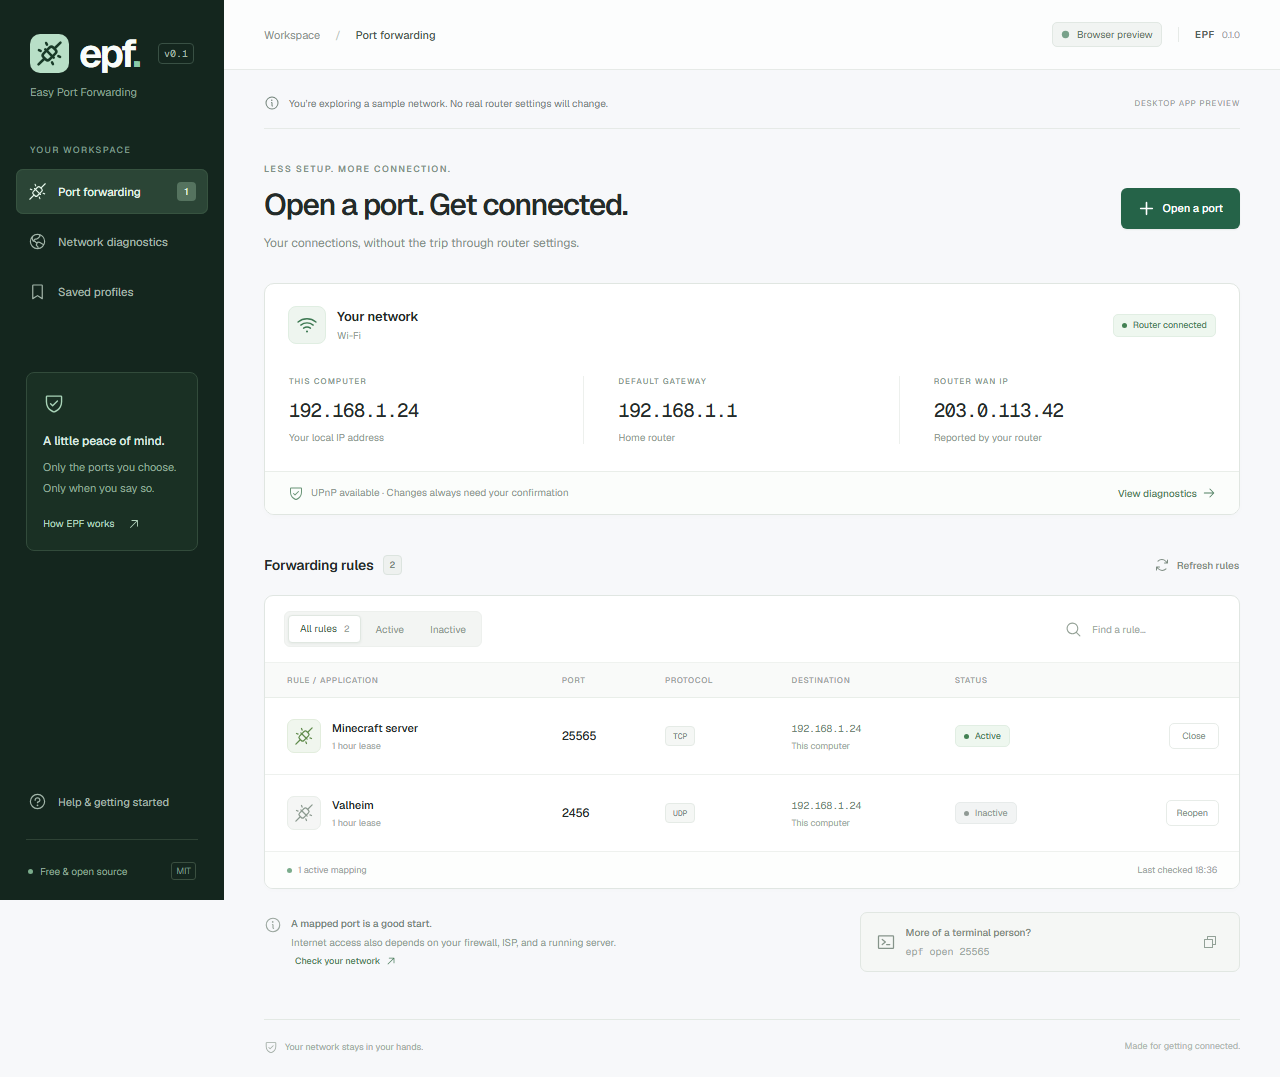
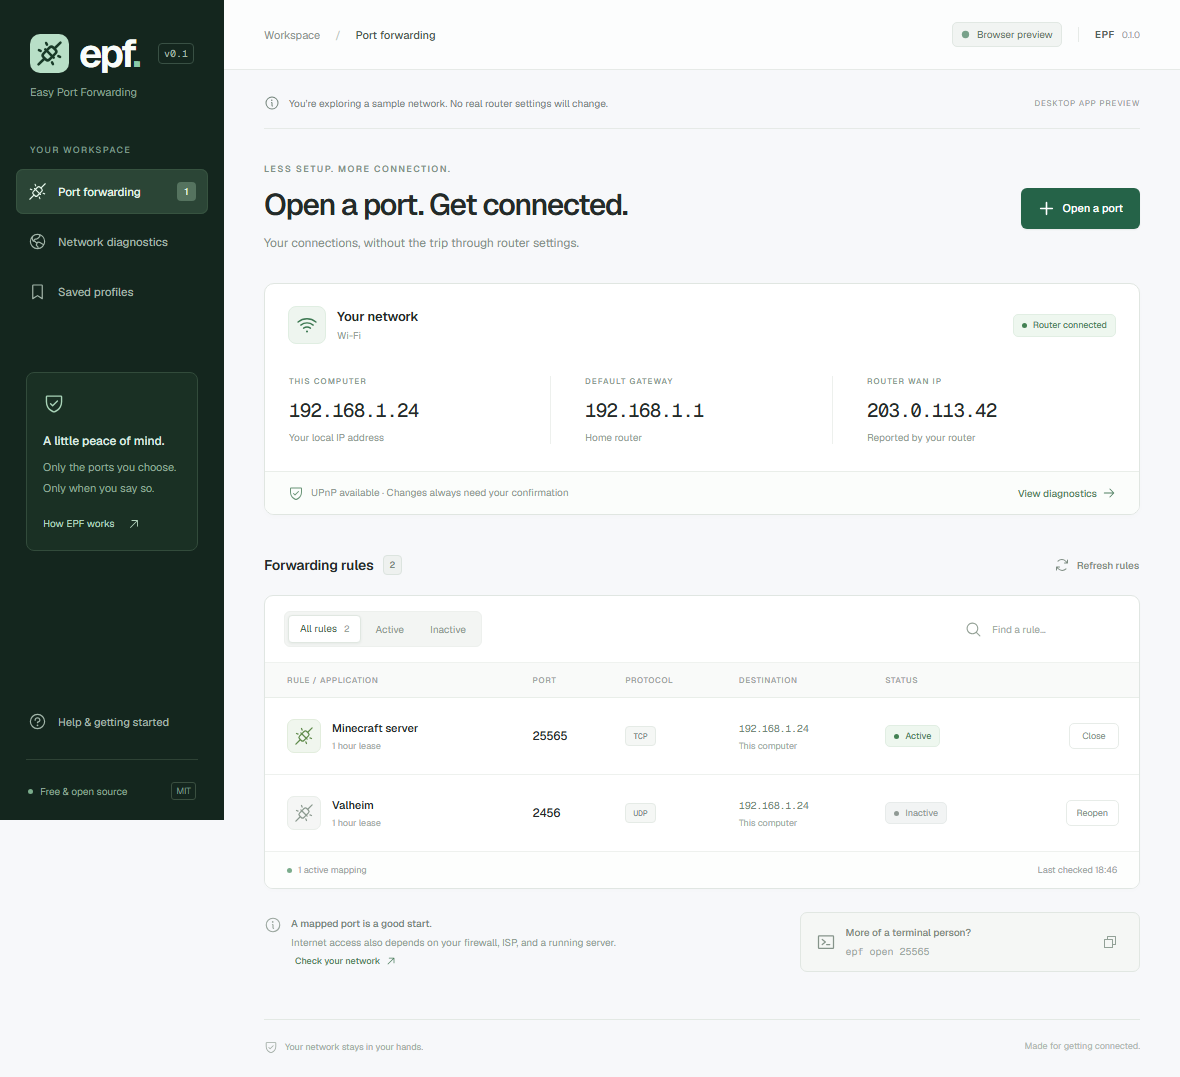
chore: verify release versions and document the confirmation flow

diff --git a/README.md b/README.md
@@ -37,6 +37,13 @@ Once installed:
 
 The default lease is one hour. Your router expires it even if EPF is closed. EPF doesn't automatically renew leases or restore old rules when you restart it. To remove a mapping earlier, click **Close** in its row and confirm.
 
+<details>
+<summary>See the confirmation step</summary>
+
+![EPF asks you to review the destination, protocol, and lease before opening a port](docs/confirmation.png)
+
+</details>
+
 ## What works in the MVP
 
 - Detect the default interface, local IPv4 address, and gateway.
